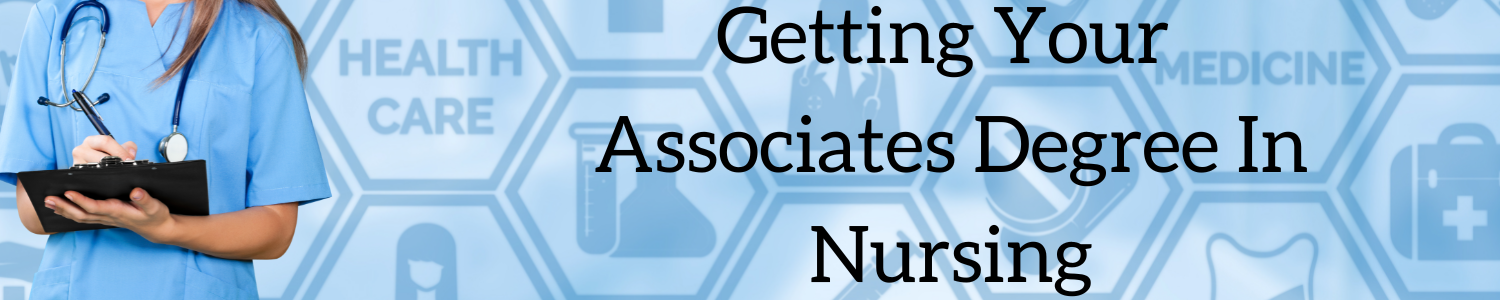
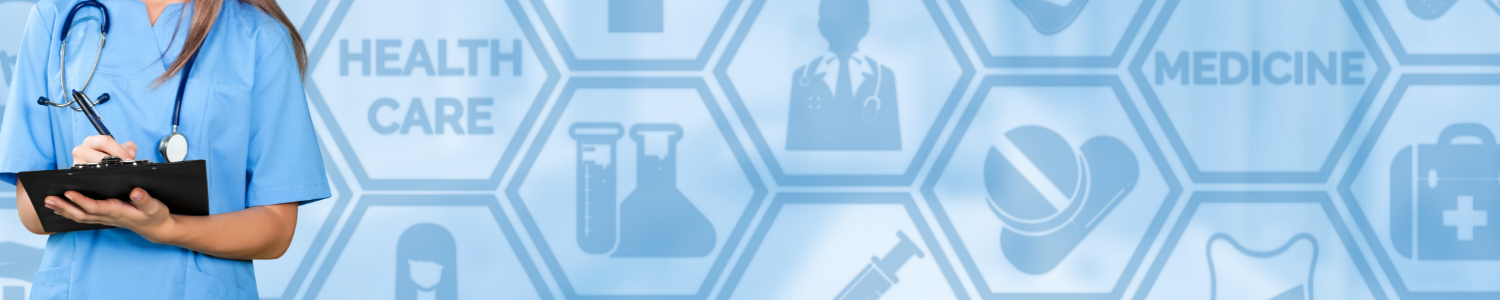
made a few changes to pictures

diff --git a/style.css b/style.css
@@ -5,10 +5,9 @@ html, body {
 }
 
 header {
-    background-image: url(https://res.cloudinary.com/ddmn1cgda/image/upload/v1658332563/Getting_Your_Associates_Degree_In_Nursing_wgmedn.png);
-    background-repeat: no-repeat;
-    height: 360px;
+    height: 200px;
     text-align: center;
+    background: #74b1d8;
     color: #fff5fa;
 }
 
@@ -84,14 +83,3 @@ footer {
     margin-left: 125px;
 }
 
-#invert {
-    float: right;
-    margin-top: 270px;
-    padding: 5px;
-}
-
-#invertion {
-    float: right;
-    margin-top: 270px;
-    padding: 5px;
-}

diff --git a/index.html b/index.html
@@ -14,6 +14,7 @@
     <header>
         <label for="html" id="invert">Check the box for a different color!</label>
         <input type="checkbox" id="invertion" />
+        <h1>Getting Your Associates Degree in Nursing</h1>
     </header>
 <!--Feel free to get rid of this, but I'm gonna just go ahead and leave a comment here.
     All you got to do is change the area in the img sections, and also over in the javascript

diff --git a/script.js b/script.js
@@ -55,6 +55,8 @@ $(document).ready( function(){
 
     //The function to invert colors using the clickbox
 
+    
+
     $("#invertion").on("click", function(){
         if($(this).is(":checked")){
             $("html").css("background", "#fff5fa");
